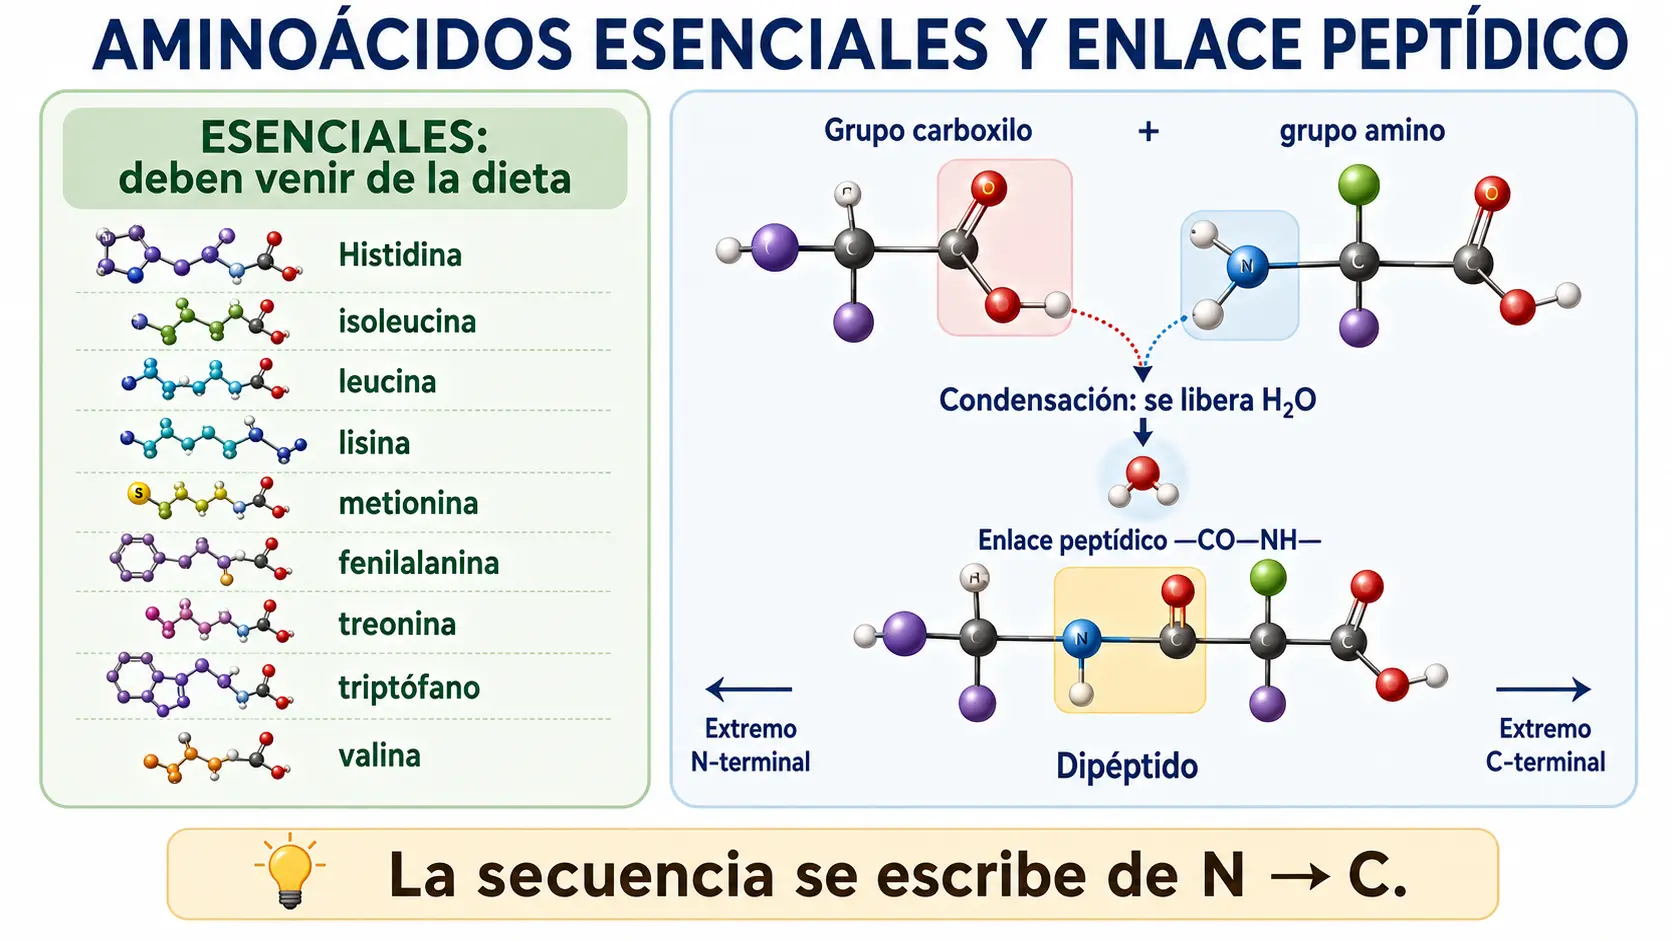
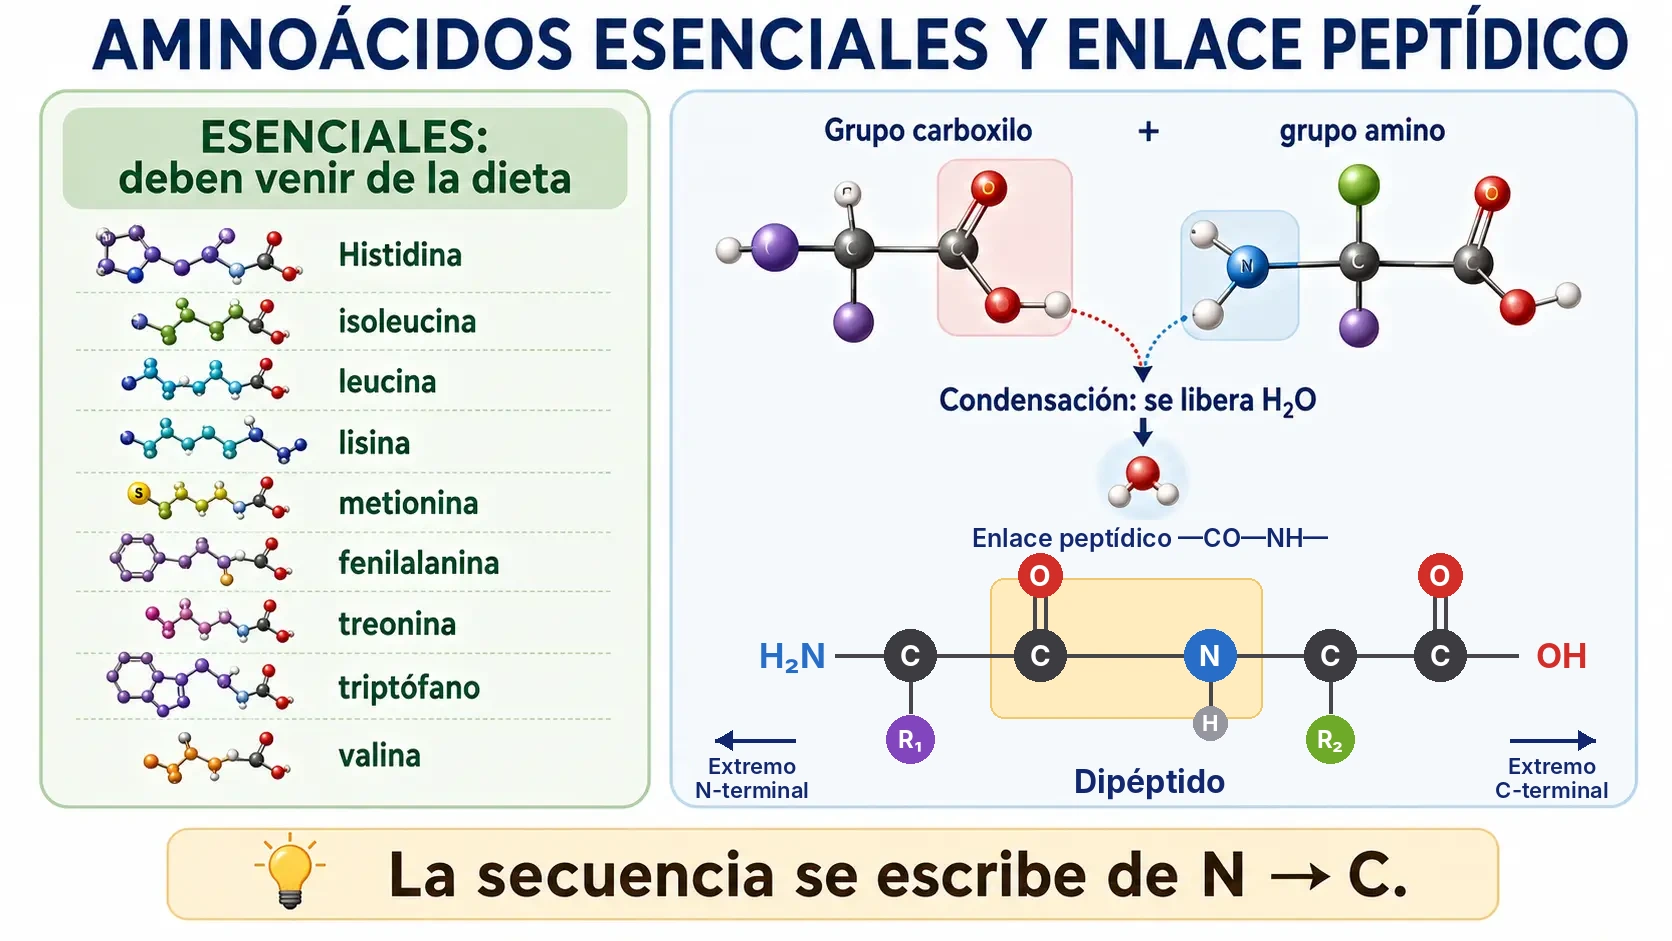
Biología: corrige as figuras do dipeptídeo e de citosol/inclusões (sem apagar imagens) e remove as notas de erro de figura
Claude-Session: https://claude.ai/code/session_01RqPJR6WPBhuhwUpV78sACw

Changed region(s): [[0.4043, 0.5547, 0.9641, 0.8629], [0.4043, 0.7705, 0.4976, 0.8629], [0.8708, 0.7705, 0.9641, 0.8629]]

diff --git a/Repasso-Med-Site--main/Atual - Copia/netlify/functions/materias-privadas/biologia.html b/Repasso-Med-Site--main/Atual - Copia/netlify/functions/materias-privadas/biologia.html
@@ -833,8 +833,8 @@
   <figure class="rmc-fig bio-fig"><div class="rmc-zoom"><img class="rmc-photo" src="/assets/img/bio/bio_b05_01_aminoacido_estructura.webp" alt="Estructura general de un aminoácido con carbono alfa central unido a un grupo amino, un grupo carboxilo, un hidrógeno y una cadena lateral R." loading="lazy" decoding="async" width="1672" height="941"></div><p class="rmc-hint">🔍 tocá la figura y ampliá con dos dedos para leer los rótulos</p><figcaption><b>Todo aminoácido es igual salvo por la R.</b> Fijate en el <b>carbono α</b> del centro: siempre tiene lo mismo colgando — un grupo <b>amino (–NH₂)</b>, un grupo <b>carboxilo (–COOH)</b>, un <b>hidrógeno</b> y una cadena lateral <b>R</b>.</figcaption></figure><div class="rmc-note"><p>Los veinte aminoácidos comparten esas tres primeras piezas; lo único que cambia entre uno y otro es la <b>R</b>.</p>
     <p>Por eso toda la clasificación del apartado siguiente se hace mirando exclusivamente esa cadena lateral, y por eso la R termina decidiendo cómo se pliega la proteína y qué función va a tener.</p></div><figure class="rmc-fig bio-fig"><div class="rmc-zoom"><img class="rmc-photo" src="/assets/img/bio/bio_b05_02_clasificacion_aminoacidos.webp" alt="Clasificación de los aminoácidos por su cadena lateral R en cuatro grupos: no polares o hidrofóbicos, polares sin carga o hidrofílicos, ácidos con carga negativa como aspartato y glutamato, y básicos con carga positiva como lisina, arginina e histidina." loading="lazy" decoding="async" width="1672" height="941"></div><p class="rmc-hint">🔍 tocá la figura y ampliá con dos dedos para leer los rótulos</p><figcaption><b>Cuatro grupos, y todos se deciden mirando la R.</b> La pregunta que ordena la tabla es doble: <b>¿la R es polar?</b> y, si lo es, <b>¿tiene carga?</b></figcaption></figure><div class="rmc-note"><p>Sin polaridad → <b>no polares</b>, hidrofóbicos, y por eso terminan escondidos en el <b>interior</b> de la proteína plegada. Polar sin carga → <b>hidrofílicos</b>, en la superficie. Con carga negativa → <b>ácidos</b> (Asp, Glu).</p>
     <p>Con carga positiva → <b>básicos</b> (Lys, Arg, His). El pie lo dice sin rodeos y es la razón de ser del bloque siguiente: <b>la polaridad y la carga de R condicionan el plegamiento y la función</b> — no es una clasificación decorativa, es la que explica la estructura terciaria.</p></div><figure class="rmc-fig bio-fig"><div class="rmc-zoom"><img class="rmc-photo" src="/assets/img/bio/bio_b05_03_esenciales_enlace_peptidico.webp" alt="Los nueve aminoácidos esenciales que deben venir de la dieta — histidina, isoleucina, leucina, lisina, metionina, fenilalanina, treonina, triptófano y valina — y la formación del enlace peptídico por condensación entre el grupo carboxilo de un aminoácido y el grupo amino del siguiente, con liberación de agua y los extremos N-terminal y C-terminal del dipéptido." loading="lazy" decoding="async" width="1672" height="941"></div><p class="rmc-hint">🔍 tocá la figura y ampliá con dos dedos para leer los rótulos</p><figcaption><b>Nueve de dieta, y un enlace que siempre va en el mismo sentido.</b> La columna izquierda es para tener presente: son <b>nueve</b> los esenciales, los que el cuerpo <b>no fabrica</b> y tienen que venir de la comida.</figcaption></figure><div class="rmc-note"><p>A la derecha está el mecanismo: el <b>–COOH</b> de uno se junta con el <b>–NH₂</b> del siguiente, sale una molécula de <b>H₂O</b> y queda el <b>enlace peptídico –CO–NH–</b>.</p>
-    <p>Retené la orientación, que ordena todo lo demás: una cadena se escribe y se sintetiza <b>del extremo N-terminal (amino libre) al C-terminal (carboxilo libre)</b>, o sea <b>N → C</b>. Nota sobre la figura: en el dipéptido dibujado, el enlace aparece como N–CO leyendo de izquierda a derecha, lo que <b>contradice</b> las flechas de abajo: con el N-terminal a la izquierda, el orden correcto es <b>–CO–NH–</b>, carbonilo primero.</p>
-    <p>Quedate con la fórmula del rótulo y con la regla N → C, no con el dibujo.</p></div>
+    <p>Retené la orientación, que ordena todo lo demás: una cadena se escribe y se sintetiza <b>del extremo N-terminal (amino libre) al C-terminal (carboxilo libre)</b>, o sea <b>N → C</b>. En el dipéptido de la figura, con el N-terminal a la izquierda, el enlace se lee <b>–CO–NH–</b> (carbonilo primero).</p>
+    <p>Quedate con la fórmula del rótulo y con la regla N → C.</p></div>
 
   <div class="bio-scroll">
   <table>
@@ -1578,7 +1578,7 @@
     <p>Sus motoras son las <strong>miosinas</strong>: <strong>miosina II</strong> (contracción muscular), <strong>miosina I y V</strong> (transporte de organoides).</p>
     <p>Forman el esqueleto de las <strong>microvellosidades</strong> y permiten la <strong>motilidad celular</strong>. Se unen a la membrana por la <strong>espectrina</strong> y anclan en el <strong>contacto focal</strong>.</p>
   </div><figure class="rmc-fig bio-fig"><div class="rmc-zoom"><img class="rmc-photo" src="/assets/img/bio/bio_b09_01_citosol_inclusiones.webp" alt="Funciones del citosol —metabolismo con glucólisis y síntesis, transporte de metabolitos y señales, reserva de iones y pequeñas moléculas y soporte del citoesqueleto y los ribosomas libres— y los tipos de inclusiones: glucógeno, gotas lipídicas, pigmentos como melanina, lipofuscina y hemosiderina, y cristales." loading="lazy" decoding="async" width="1536" height="1024"></div><p class="rmc-hint">🔍 tocá la figura y ampliá con dos dedos para leer los rótulos</p><figcaption><b>Citosol y citoplasma no son sinónimos.</b> El recuadro del centro es la definición clave: <b>citoplasma = citosol + orgánulos + inclusiones</b>. El <b>citosol</b> es sólo el líquido, la fase acuosa donde ocurre la glucólisis y flotan los ribosomas libres.</figcaption></figure><div class="rmc-note"><p>Y la banda del pie marca la otra distinción: las <b>inclusiones no son orgánulos</b> — no tienen membrana propia (el glucógeno), o sólo una <b>monocapa</b> (las gotas lipídicas), no cumplen una función metabólica delimitada y son <b>transitorias</b>: aparecen y desaparecen según el estado de la célula.</p>
-    <p>Un orgánulo es permanente; una inclusión es un depósito. <i>(Nota sobre la figura: dice «transtorias»; la palabra correcta es «transitorias».)</i></p></div>
+    <p>Un orgánulo es permanente; una inclusión es un depósito.</p></div>
 
   <figure class="rmc-fig bio-fig"><div class="rmc-zoom"><img class="rmc-photo" src="/assets/img/bio/bio_b09_02_citoesqueleto_comparativo.webp" alt="Los tres componentes del citoesqueleto comparados: microtúbulos de tubulina de unos 25 nanómetros, filamentos intermedios de queratina y otras proteínas de unos 10 nanómetros, y microfilamentos de actina de unos 7 a 8 nanómetros, con su composición, estructura y funciones." loading="lazy" decoding="async" width="1536" height="1024"></div><p class="rmc-hint">🔍 tocá la figura y ampliá con dos dedos para leer los rótulos</p><figcaption><b>Se ordenan por grosor, y el grosor predice la función.</b> Aprendelos en la escalera que muestra la figura: <b>microtúbulos ~25 nm</b> (los más gruesos), <b>filamentos intermedios ~10 nm</b>, <b>microfilamentos ~8 nm</b> (los más finos).</figcaption></figure><div class="rmc-note"><p>Y asociá cada uno a su trabajo, que se deduce del calibre. Los <b>microtúbulos</b>, gruesos y polares, son los <b>rieles</b>: transporte de vesículas, huso mitótico, cilios y flagelos.</p>
     <p>Los <b>filamentos intermedios</b> son los <b>cables de acero</b>: pura resistencia mecánica, sin polaridad y sin motores — son los únicos que no transportan nada.</p>

diff --git a/coordination/source-packs/biologia-figuras-05-09-v1.md b/coordination/source-packs/biologia-figuras-05-09-v1.md
@@ -1,0 +1,17 @@
+# Biología — correção das duas figuras registradas na #550 (2026-10-23)
+
+**Nível:** correção das duas figuras e das duas notas de texto que as apontavam. Nenhuma imagem apagada; mesmos caminhos de arquivo; `alt`, ids, perguntas, gabaritos e cartões intactos.
+
+## Fonte → achado → decisão → destino
+| Fonte | Achado | Decisão | Destino |
+|---|---|---|---|
+| De Robertis, *Biología Celular y Molecular* 16.ª ed. (Drive, cap. 2): «o grupamento NH₂ de um aminoácido se combina com o COOH do seguinte, com perda de água»; a molécula tem NH₂ numa extremidade (aminoterminal) e COOH na outra (carboxilaterminal); pentapeptídeo desenhado «da extremidade aminoterminal à carboxilaterminal» | Na figura, o dipeptídeo tinha o N aberto na ponta esquerda (N-terminal) com a ordem N–C(=O) lida da esquerda para a direita: contradizia a seta N→C e o rótulo «—CO—NH—» | Painel do dipeptídeo **redesenhado**: H₂N–Cα(R₁)–**CO–NH**–Cα(R₂)–COOH, caixa destacando o enlace, setas N-terminal (esquerda) e C-terminal (direita). Painéis do aminoácidos esenciales e da condensação ficam como estavam | `assets/img/bio/bio_b05_03_esenciales_enlace_peptidico.webp`; nota do bloco 05 reescrita |
+| Unidad II 2022 (cátedra): «cuando dos aminoácidos se unen lo hacen por medio del ENLACE PEPTÍDICO»; 20 aminoácidos essenciais fornecidos pela dieta | Coerente com a figura corrigida; a cátedra não detalha a orientação N→C, que vem do livro | Nada mais a alterar | — |
+| Léxico (ortografia) | O rodapé da figura de citosol/inclusões dizia «TRANSTORIAS» | Retocado só o texto do rodapé para «TRANSITORIAS» (fundo dourado reconstruído, mesma posição); restante da imagem intocado | `assets/img/bio/bio_b09_01_citosol_inclusiones.webp`; nota do bloco 09 removida |
+| Unidad IV (cátedra) e livro | Conteúdo da figura (funções do citosol, inclusões, citosol ≠ citoplasma) confere | Sem outra alteração | — |
+
+## Contagens
+Perguntas, cartões, imagens (39), ids e gabaritos iguais. Grifos: consulta somente leitura — nenhum em `biologia` nos trechos alterados.
+
+## Pendência encontrada (não alterada aqui)
+`bio_b09_02_citoesqueleto_comparativo.webp` e o seu `alt` ainda dizem «7 a 8 nm» para o microfilamento; o slide da Unidad V diz 8 nm (a legenda no texto já foi corrigida na #550). Requer nova correção da própria imagem.
